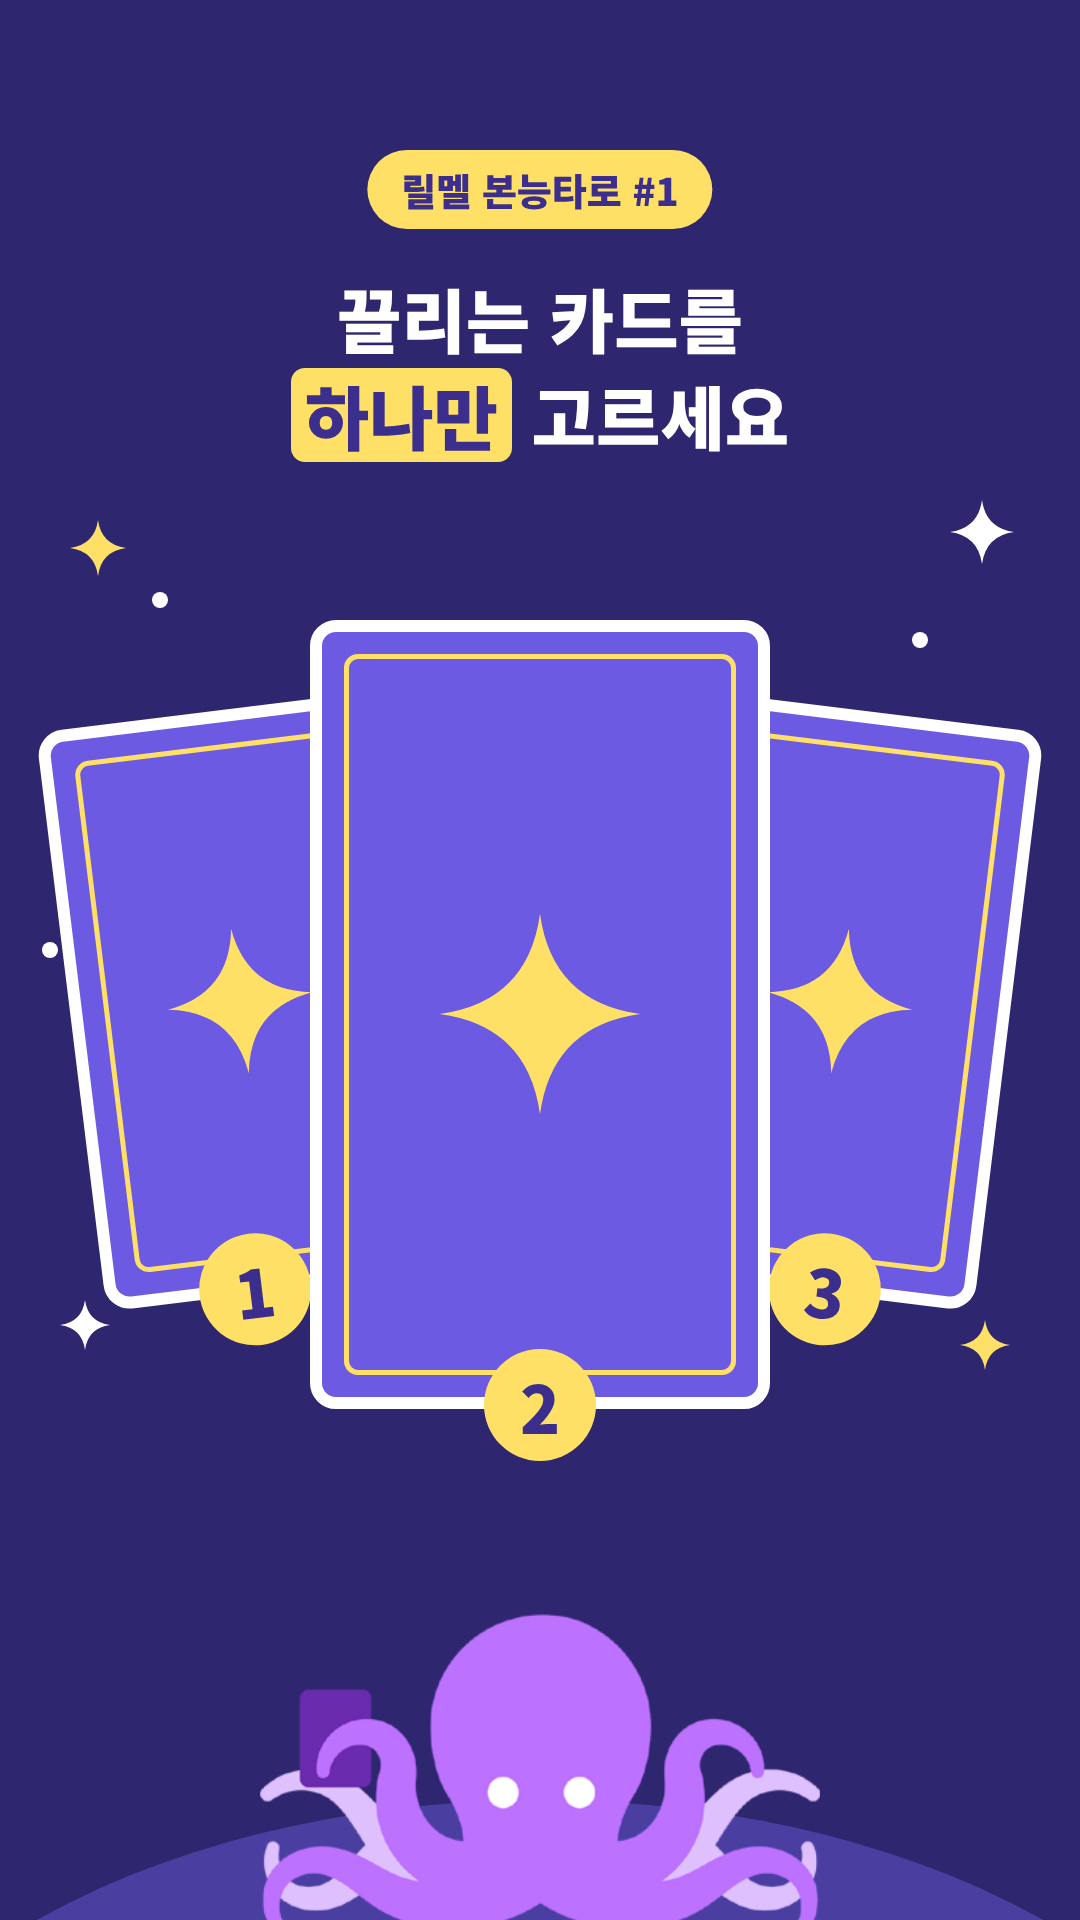
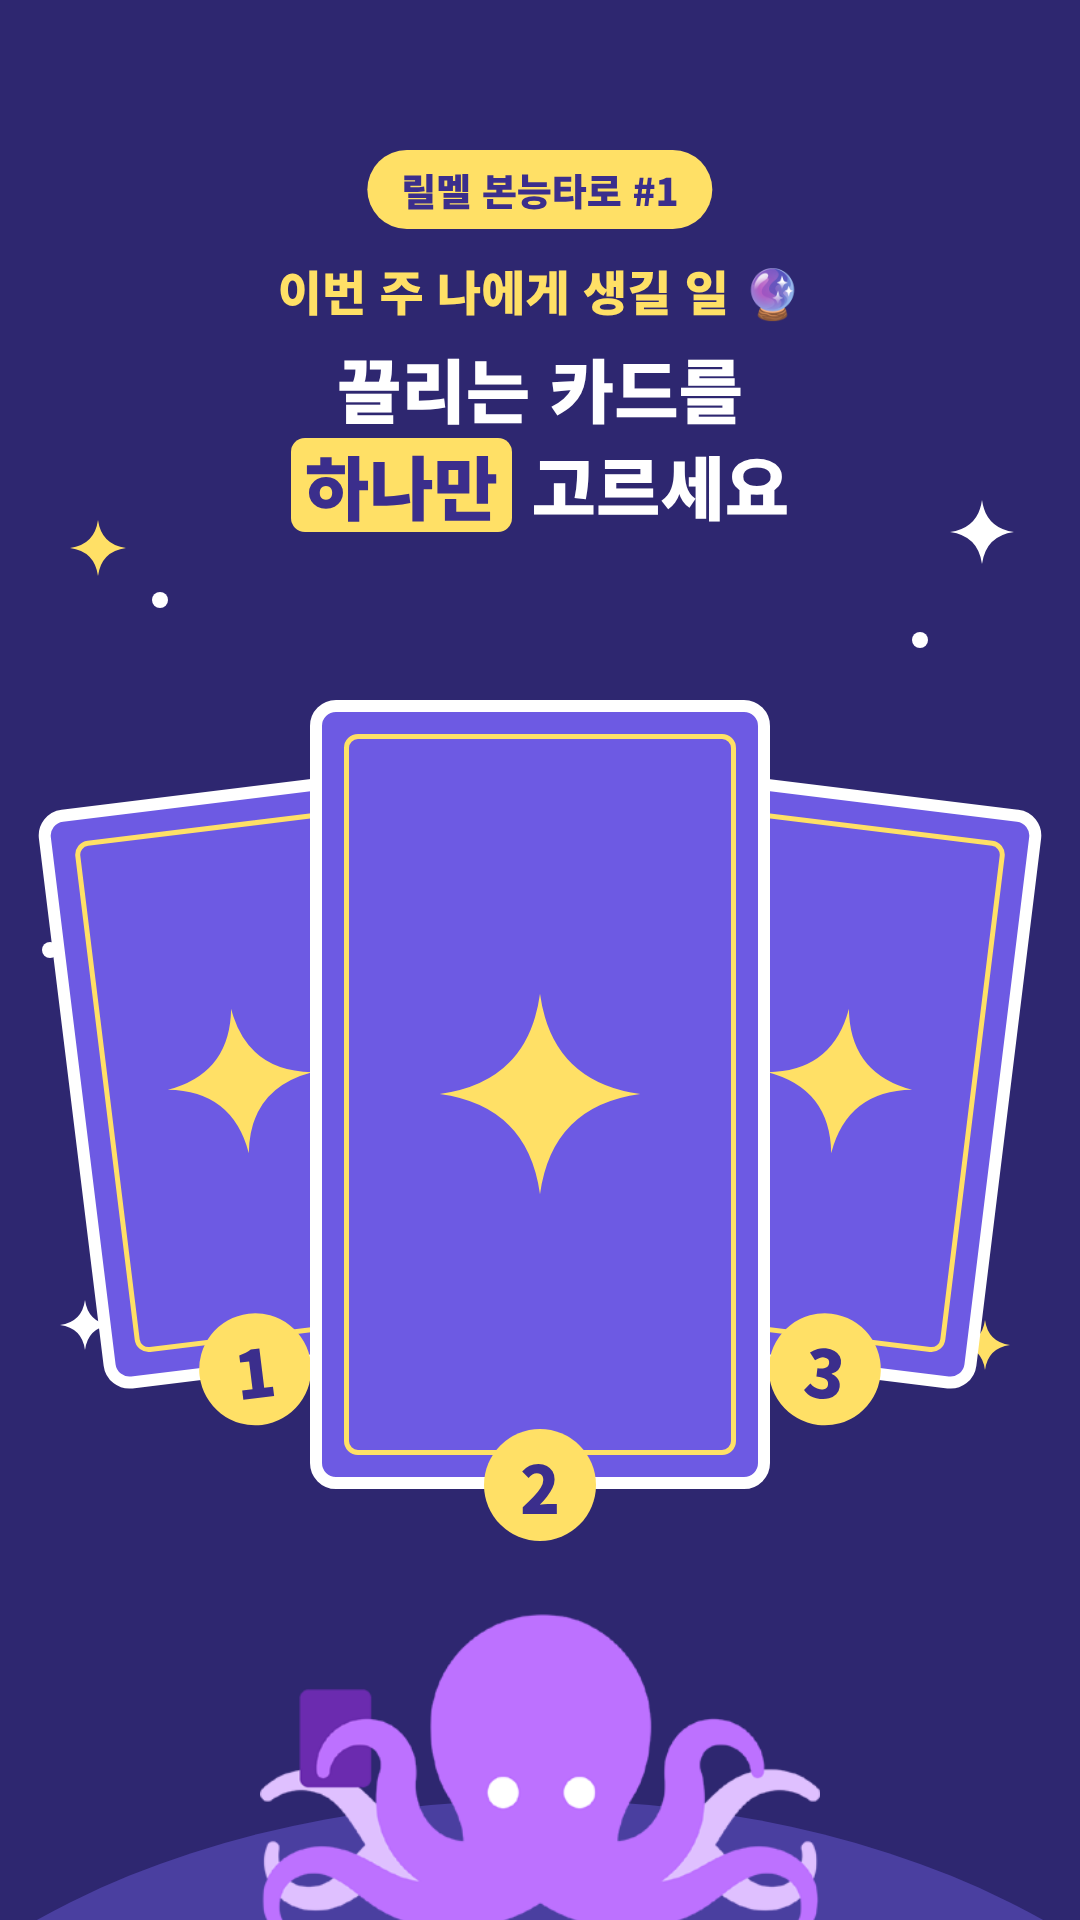
릴멜 본능타로 #1: 첫 화면 이유 문구, 말투 통일, 메시지 강조, 공개 장면에 릴멜
Claude-Session: https://claude.ai/code/session_01CejgdC5FKbbZMnpaYgrfgJ

diff --git a/promo/src/reel_inst1_04_card2.html b/promo/src/reel_inst1_04_card2.html
@@ -1,14 +1,18 @@
 <!doctype html>
 <html lang="ko"><head><meta charset="utf-8">
 <link rel="stylesheet" href="base.css"><link rel="stylesheet" href="flat.css"><link rel="stylesheet" href="earth.css"><link rel="stylesheet" href="story.css"><link rel="stylesheet" href="love.css"><link rel="stylesheet" href="instinct.css">
-<style></style></head><body>
+<style>.lv .t{font-size:52px;margin-left:12px}.lv .n{font-size:26px;padding:6px 18px}
+.msg2{font-size:62px}
+.mound{top:1800px}</style></head><body>
 <div class="f nt" id="frame">
   <span class="series">릴멜 본능타로 #1</span>
  <div class="big card" style="top:290px;width:560px;--r:-3deg"><img class="tcard" src="cards/tr10@2x.jpg" alt="운명의 수레바퀴 카드"></div>
   <div class="rank" style="left:120px;top:240px"><b>2</b><small>번</small></div>
-  <span class="topic" style="top:1290px">💰 돈</span>
-  <div class="lv" style="top:1380px"><span class="n">X</span><span class="t">운명의 수레바퀴</span></div>
-  <div class="msg2" style="top:1530px">생각보다 <span class="mk">큰돈이 들어와요</span></div>
+  <span class="topic" style="top:1260px">💰 돈</span>
+  <div class="lv" style="top:1345px"><span class="n">X</span><span class="t">운명의 수레바퀴</span></div>
+  <div class="msg2" style="top:1450px">생각보다 <span class="mk">큰돈이 들어와요</span></div>
+  <div class="mound"></div>
+  <img class="octo" src="../../images/mm01.png" alt="릴멜" style="top:1640px;width:420px;margin-left:-210px">
 </div>
 <script src="sparkle.js"></script>
 <script>sparkles([[70,520,56,'#FFE066'],[950,500,64,'#FFF'],[60,1300,50,'#FFF'],[960,1320,50,'#FFE066']],[[160,600,8,'#FFF'],[920,640,8,'#FFF'],[1010,900,8,'#FFF'],[50,950,8,'#FFF']])</script>

diff --git a/promo/src/reel_inst1_05_card3.html b/promo/src/reel_inst1_05_card3.html
@@ -1,14 +1,18 @@
 <!doctype html>
 <html lang="ko"><head><meta charset="utf-8">
 <link rel="stylesheet" href="base.css"><link rel="stylesheet" href="flat.css"><link rel="stylesheet" href="earth.css"><link rel="stylesheet" href="story.css"><link rel="stylesheet" href="love.css"><link rel="stylesheet" href="instinct.css">
-<style></style></head><body>
+<style>.lv .t{font-size:52px;margin-left:12px}.lv .n{font-size:26px;padding:6px 18px}
+.msg2{font-size:62px}
+.mound{top:1800px}</style></head><body>
 <div class="f nt" id="frame">
   <span class="series">릴멜 본능타로 #1</span>
  <div class="big card" style="top:290px;width:560px;--r:-3deg"><img class="tcard" src="cards/tr20@2x.jpg" alt="심판 카드"></div>
   <div class="rank" style="left:120px;top:240px"><b>3</b><small>번</small></div>
-  <span class="topic" style="top:1290px">📣 소식</span>
-  <div class="lv" style="top:1380px"><span class="n">XX</span><span class="t">심판</span></div>
-  <div class="msg2" style="top:1530px">이번 주 <span class="mk">놀라운 소식</span>이 생겨요</div>
+  <span class="topic" style="top:1260px">📣 소식</span>
+  <div class="lv" style="top:1345px"><span class="n">XX</span><span class="t">심판</span></div>
+  <div class="msg2" style="top:1450px">이번 주 <span class="mk">놀라운 소식</span>이 생겨요</div>
+  <div class="mound"></div>
+  <img class="octo" src="../../images/mm01.png" alt="릴멜" style="top:1640px;width:420px;margin-left:-210px">
 </div>
 <script src="sparkle.js"></script>
 <script>sparkles([[70,520,56,'#FFE066'],[950,500,64,'#FFF'],[60,1300,50,'#FFF'],[960,1320,50,'#FFE066']],[[160,600,8,'#FFF'],[920,640,8,'#FFF'],[1010,900,8,'#FFF'],[50,950,8,'#FFF']])</script>

diff --git a/promo/src/reel_inst1_03_card1.html b/promo/src/reel_inst1_03_card1.html
@@ -1,14 +1,18 @@
 <!doctype html>
 <html lang="ko"><head><meta charset="utf-8">
 <link rel="stylesheet" href="base.css"><link rel="stylesheet" href="flat.css"><link rel="stylesheet" href="earth.css"><link rel="stylesheet" href="story.css"><link rel="stylesheet" href="love.css"><link rel="stylesheet" href="instinct.css">
-<style></style></head><body>
+<style>.lv .t{font-size:52px;margin-left:12px}.lv .n{font-size:26px;padding:6px 18px}
+.msg2{font-size:62px}
+.mound{top:1800px}</style></head><body>
 <div class="f nt" id="frame">
   <span class="series">릴멜 본능타로 #1</span>
  <div class="big card" style="top:290px;width:560px;--r:-3deg"><img class="tcard" src="cards/tr6@2x.jpg" alt="연인 카드"></div>
   <div class="rank" style="left:120px;top:240px"><b>1</b><small>번</small></div>
-  <span class="topic" style="top:1290px">💌 연락</span>
-  <div class="lv" style="top:1380px"><span class="n">VI</span><span class="t">연인</span></div>
-  <div class="msg2" style="top:1530px">미뤄둔 <span class="mk">연락이 옵니다</span></div>
+  <span class="topic" style="top:1260px">💌 연락</span>
+  <div class="lv" style="top:1345px"><span class="n">VI</span><span class="t">연인</span></div>
+  <div class="msg2" style="top:1450px">미뤄 왔던 <span class="mk">연락이 와요</span></div>
+  <div class="mound"></div>
+  <img class="octo" src="../../images/mm01.png" alt="릴멜" style="top:1640px;width:420px;margin-left:-210px">
 </div>
 <script src="sparkle.js"></script>
 <script>sparkles([[70,520,56,'#FFE066'],[950,500,64,'#FFF'],[60,1300,50,'#FFF'],[960,1320,50,'#FFE066']],[[160,600,8,'#FFF'],[920,640,8,'#FFF'],[1010,900,8,'#FFF'],[50,950,8,'#FFF']])</script>

diff --git a/promo/src/reel_inst1_01_pick.html b/promo/src/reel_inst1_01_pick.html
@@ -1,10 +1,12 @@
 <!doctype html>
 <html lang="ko"><head><meta charset="utf-8">
 <link rel="stylesheet" href="base.css"><link rel="stylesheet" href="flat.css"><link rel="stylesheet" href="earth.css"><link rel="stylesheet" href="story.css"><link rel="stylesheet" href="love.css"><link rel="stylesheet" href="instinct.css">
-<style>.tt{top:270px}.fan3{top:620px}</style></head><body>
+<style>.tt{top:340px}.fan3{top:700px}
+.why{position:absolute;top:255px;left:0;right:0;text-align:center;font-size:48px;font-weight:900;color:#FFE066}</style></head><body>
 <div class="f nt" id="frame">
   <span class="series">릴멜 본능타로 #1</span>
- <p class="tt">끌리는 카드를<br><span class="mk">하나만</span> 고르세요</p>
+ <p class="why">이번 주 나에게 생길 일 🔮</p>
+  <p class="tt">끌리는 카드를<br><span class="mk">하나만</span> 고르세요</p>
   <div class="fan3">
     <span class="l"><div class="bk" style="background:#6D5AE3"><svg viewBox="0 0 10 10"><path d="M5 0Q5.6 4.4 10 5Q5.6 5.6 5 10Q4.4 5.6 0 5Q4.4 4.4 5 0z" fill="#FFE066"/></svg></div><b class="no">1</b></span>
     <span class="r"><div class="bk" style="background:#6D5AE3"><svg viewBox="0 0 10 10"><path d="M5 0Q5.6 4.4 10 5Q5.6 5.6 5 10Q4.4 5.6 0 5Q4.4 4.4 5 0z" fill="#FFE066"/></svg></div><b class="no">3</b></span>
